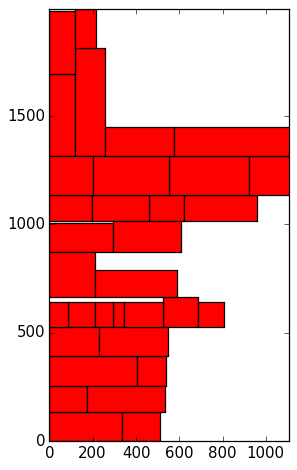
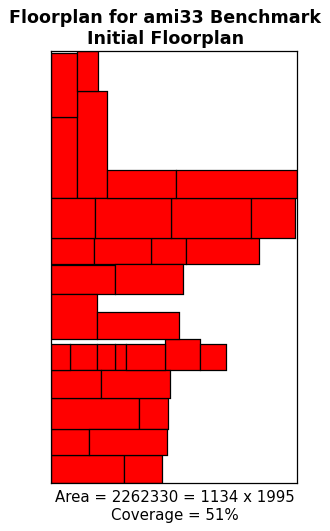
Update floorplan images.  Fix bug on display width.  Add coverage percentage and title.

Changed region(s): [[0.0303, 0.0, 1.0, 0.983]]

diff --git a/printFloorplan.py b/printFloorplan.py
@@ -2,60 +2,65 @@ import matplotlib.pyplot as plt
 import matplotlib.patches as patches
 import numpy as np
 from classes import Rect
+import metrics
 
 def findMaxX(array):
-	max=0
+	maxValue=0
 
 	for r in array:
-		if (r.x+r.h>max):
-			max = r.x+r.h
+		if (r.x+r.w>maxValue):
+			maxValue = r.x+r.w
 
-	return max
+	return maxValue
 
 def findMaxY(array):
-	max=0
+	maxValue=0
 
 	for r in array:
-		if (r.y+r.h>max):
-			max = r.y+r.h
+		if (r.y+r.h>maxValue):
+			maxValue = r.y+r.h
 
-	return max
+	return maxValue
 
 def findMinX(array):
-	min=100000000
+	minValue=100000000
 
 	for r in array:
-		if (r.x<min):
-			min = r.x
+		if (r.x<minValue):
+			minValue = r.x
 		
-	return min
+	return minValue
 
 def findMinY(array):
-	min=100000000
+	minValue=100000000
 
 	for r in array:
-		if (r.y<min):
-			min = r.y
+		if (r.y<minValue):
+			minValue = r.y
 
-	return min	
+	return minValue	
 ########################################################################
 
 
 
 
-def printFloorplan(rectangles,outfile):
+def printFloorplan(rectangles,dataset, outfile,scenario):
 	MINX = findMinX(rectangles)
 	MAXX = findMaxX(rectangles)
 	MINY = findMinY(rectangles)
 	MAXY = findMaxY(rectangles)
 
+	#print(dataset + '|' + str(MINX) + '|' + str(MAXX) + '|' + str(MINY) + '|' + str(MAXY))
+
 
 	fig1 = plt.figure()
+	fig1.suptitle("Floorplan for "+dataset+' Benchmark\n'+scenario, fontsize=14, fontweight='bold')		
+
 	ax1 = fig1.add_subplot(111, aspect='equal')
 	ax1.set_xlim([MINX,MAXX])
 	ax1.set_ylim([MINY,MAXY])
-	#ax1.set_yticks([])
-	#ax1.set_xticks([])
+	ax1.set_yticks([])
+	ax1.set_xticks([])
 
 	for j in range(len(rectangles)):
 		p = rectangles[j].makePatch()
@@ -68,7 +73,13 @@ def printFloorplan(rectangles,outfile):
 		ax1.add_patch(p)
 
 
-		
+	coverage = metrics.getCoverage(rectangles)
+	coveragepct = (coverage*1.0)/(MAXX*MAXY)*100
+	#print(str(coverage))
+	#print(str(coveragepct))
+	#print(str(MAXX*MAXY))
+	ax1.set_xlabel('Area = ' + str(MAXX*MAXY) + ' = ' + str(MAXX) + ' x ' + str(MAXY) + '\nCoverage = ' + str("{0:.0f}%".format(coveragepct)))
+
 	fig1.savefig(outfile, dpi=90, bbox_inches='tight')
 
 
@@ -80,6 +91,6 @@ def test():
 
 	myRectangles = [R1,R2,R3,R4]
 
-	printFloorplan(myRectangles,'rect1.png')
+	printFloorplan(myRectangles,'rect1','rect1.png','Test')
 
 #test()

diff --git a/metrics.py b/metrics.py
@@ -1,14 +1,6 @@
 import parseData as pd
 import numpy as np
 
-rectangles = pd.createDiagonal('ami33')
-
-
-#print(rectangles[0].name)
-#print(rectangles[0].x)
-#print(rectangles[0].y)
-#print(rectangles[0].w)
-#print(rectangles[0].h)
 # Finding midpoints of rectangles
 def findMid(rectangles):
 	
@@ -82,24 +74,15 @@ def getCoverage(rectangles): # sum of individual areas
     tot_area = 0
     
     for r in rectangles:
-       print(r.name)
+       #print(r.name)
        area = r.w * r.h
        tot_area = tot_area + area 
-       print(tot_area)      
+       #print(tot_area)      
     return tot_area
 
 def getAreaRectangle(rectangleName): # rectangle name to rectangle area, need to call function "createDictionary" (in parseData)
 	
     return 0
-
-
-print(getCoverage(rectangles))
-#print(getAreaFloorplan(rectangles))
-#print(findMid(rectangles))
-
-#print(manhattanDist(rectangles))
-
-#print(manhattanDist(rectangles))
 
 #############################################################################
 # Compute cost of a slicing tree based on overall area alone

diff --git a/initializeMatchPairs.py b/initializeMatchPairs.py
@@ -149,7 +149,7 @@ def initializeMatchPairs(dataset):
 		print(utils.getPolishArray(newTree))
 	#checkPolishArray()
 
-	pfp.printFloorplan(rectangles,"Output/initialMatchPairs_" + dataset + ".png")
+	pfp.printFloorplan(rectangles,dataset,"Output/initialMatchPairs_" + dataset + ".png",'Initial Floorplan')
 
 
 	def printRect(rect):
@@ -175,6 +175,6 @@ def initializeMatchPairs(dataset):
 def analyzeAllBenchmarks():
 	for dataset in utils.benchmarks:
 		initializeMatchPairs(dataset)
-#analyzeAllBenchmarks()
+analyzeAllBenchmarks()
 
 #initializeMatchPairs(utils.benchmarks[0])

diff --git a/parseData.py b/parseData.py
@@ -120,7 +120,7 @@ def printDiagonal(dataset):
 	matrix = createConnectionMatrix(netlists,dictionary,rectangles)	
 
 	# Print rectangles
-	pf.printFloorplan(rectangles,"Output/"+dataset+".png")
+	pf.printFloorplan(rectangles,dataset,"Output/"+dataset+".png","Diagonalized Floorplan")
 
 
 ################################################################################################
@@ -145,7 +145,7 @@ def diagonalTest():
 	for ds in datasets:
 		printDiagonal(ds)
 
-diagonalTest()
+#diagonalTest()
 
 
 def check(ds):

diff --git a/annealer.py b/annealer.py
@@ -109,7 +109,7 @@ def anneal(dataset, annealingParameters, cost):
 	constructNewRectangleMatrix(bestSolution)
 
 	print("Total area for " + dataset + " = " + str(bestSolution.w*bestSolution.h))
-	pfp.printFloorplan(newRectangles,'Output/annealing_' + dataset + '.png')
+	pfp.printFloorplan(newRectangles,dataset,'Output/annealing_' + dataset + '.png','Annealed Floorplan')
 
 	return (bestSolution, rectangles, dictionary, matrix)
 
